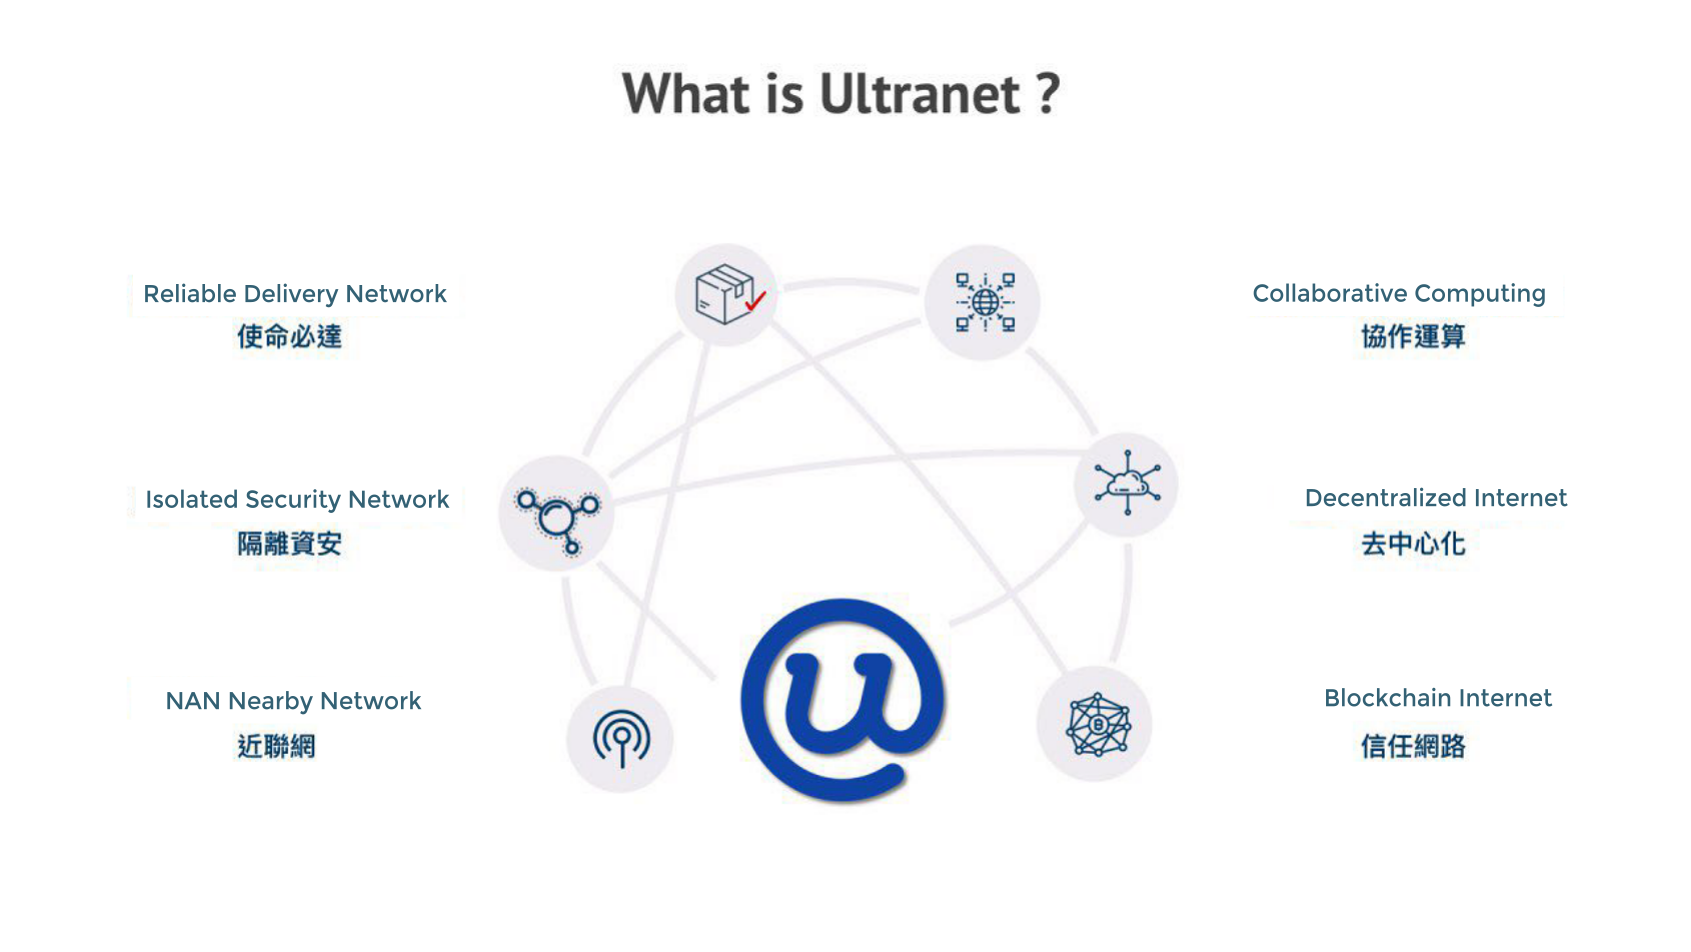
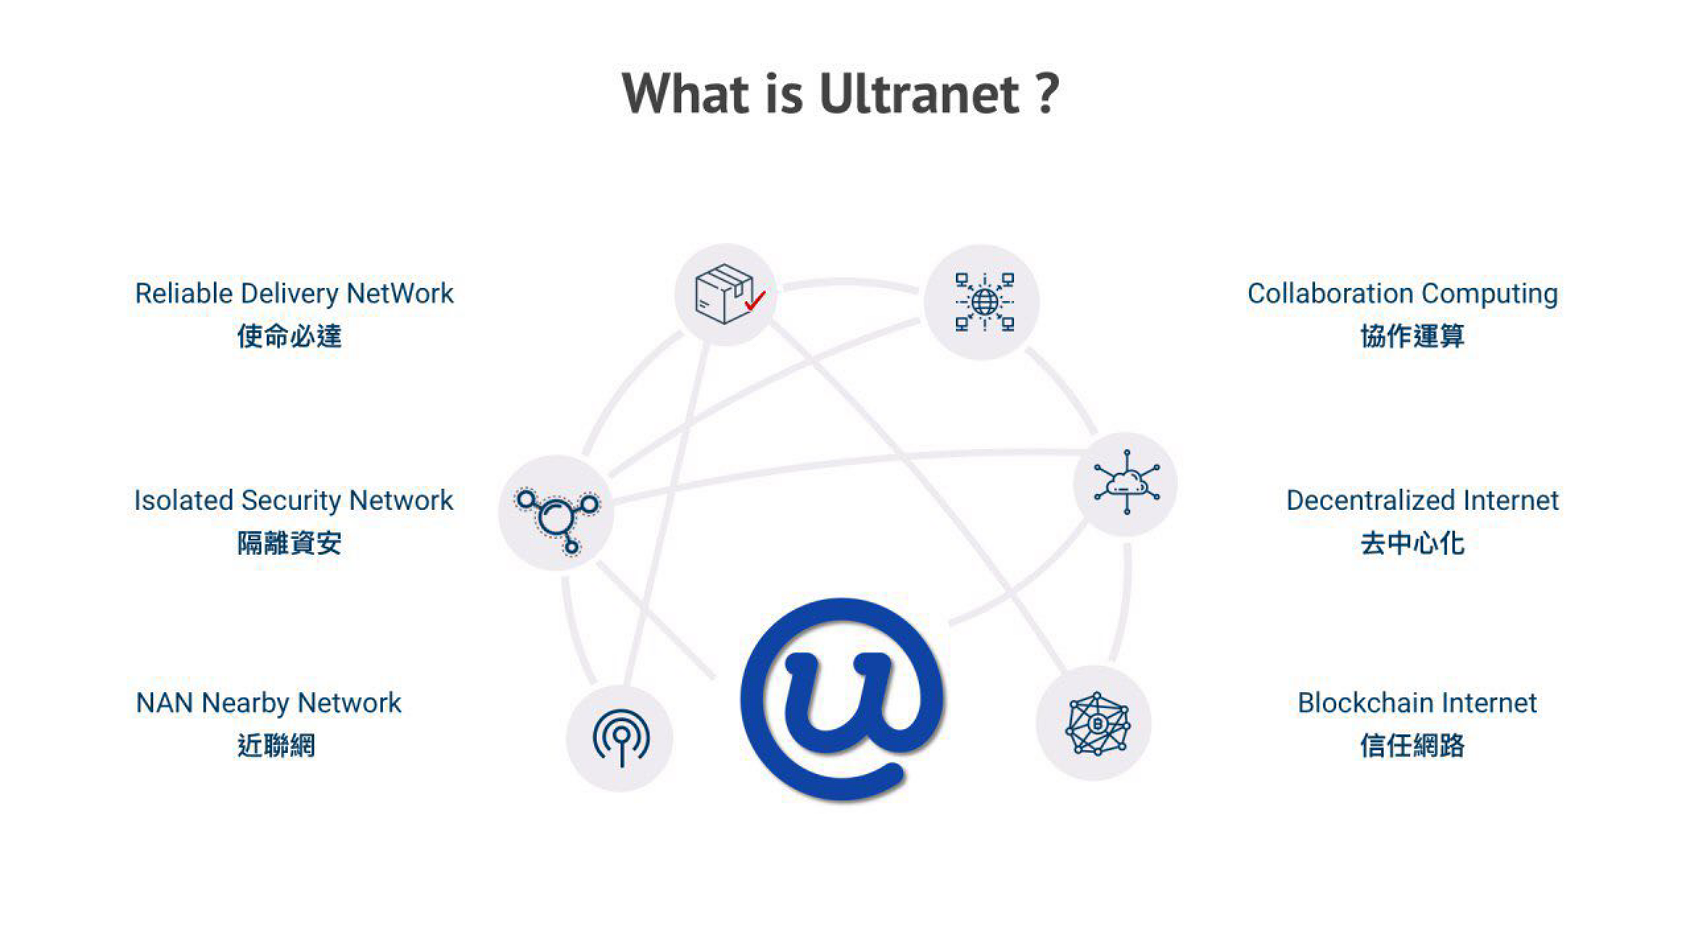
GitBook: [master] 5 pages and 6 assets modified

diff --git a/SUMMARY.md b/SUMMARY.md
@@ -1,8 +1,11 @@
 # Table of contents
 
 * [Introduction](README.md)
+* [What is Ultranet?](untitled.md)
 * [Ultranet Working Space](ultranet-working-space.md)
 * [Top-10 uApp](ultranet-top-10-apps.md)
-* [Ultranet Open Lab](ultranet-open-lab.md)
 * [uBot System Diagram](ubot-system-diagram.md)
+* [Sphere Coms](sphere-coms.md)
+* [Ultranet Open Lab](ultranet-open-lab.md)
+* [Untitled](untitled-1.md)
 

diff --git a/untitled.md b/untitled.md
@@ -1,0 +1,8 @@
+---
+description: What is Ultranet?
+---
+
+# What is Ultranet?
+
+![](.gitbook/assets/ult_1.png)
+

diff --git a/sphere-coms.md b/sphere-coms.md
@@ -1,0 +1,8 @@
+---
+description: Sphere components
+---
+
+# Sphere Coms
+
+![](.gitbook/assets/ult_6.png)
+

diff --git a/README.md b/README.md
@@ -1,4 +1,4 @@
 # Introduction
 
-![](.gitbook/assets/ult_1%20%281%29.png)
+![](.gitbook/assets/ult_0.jpg)
 

diff --git a/untitled-1.md b/untitled-1.md
@@ -1,0 +1,2 @@
+# Untitled
+
